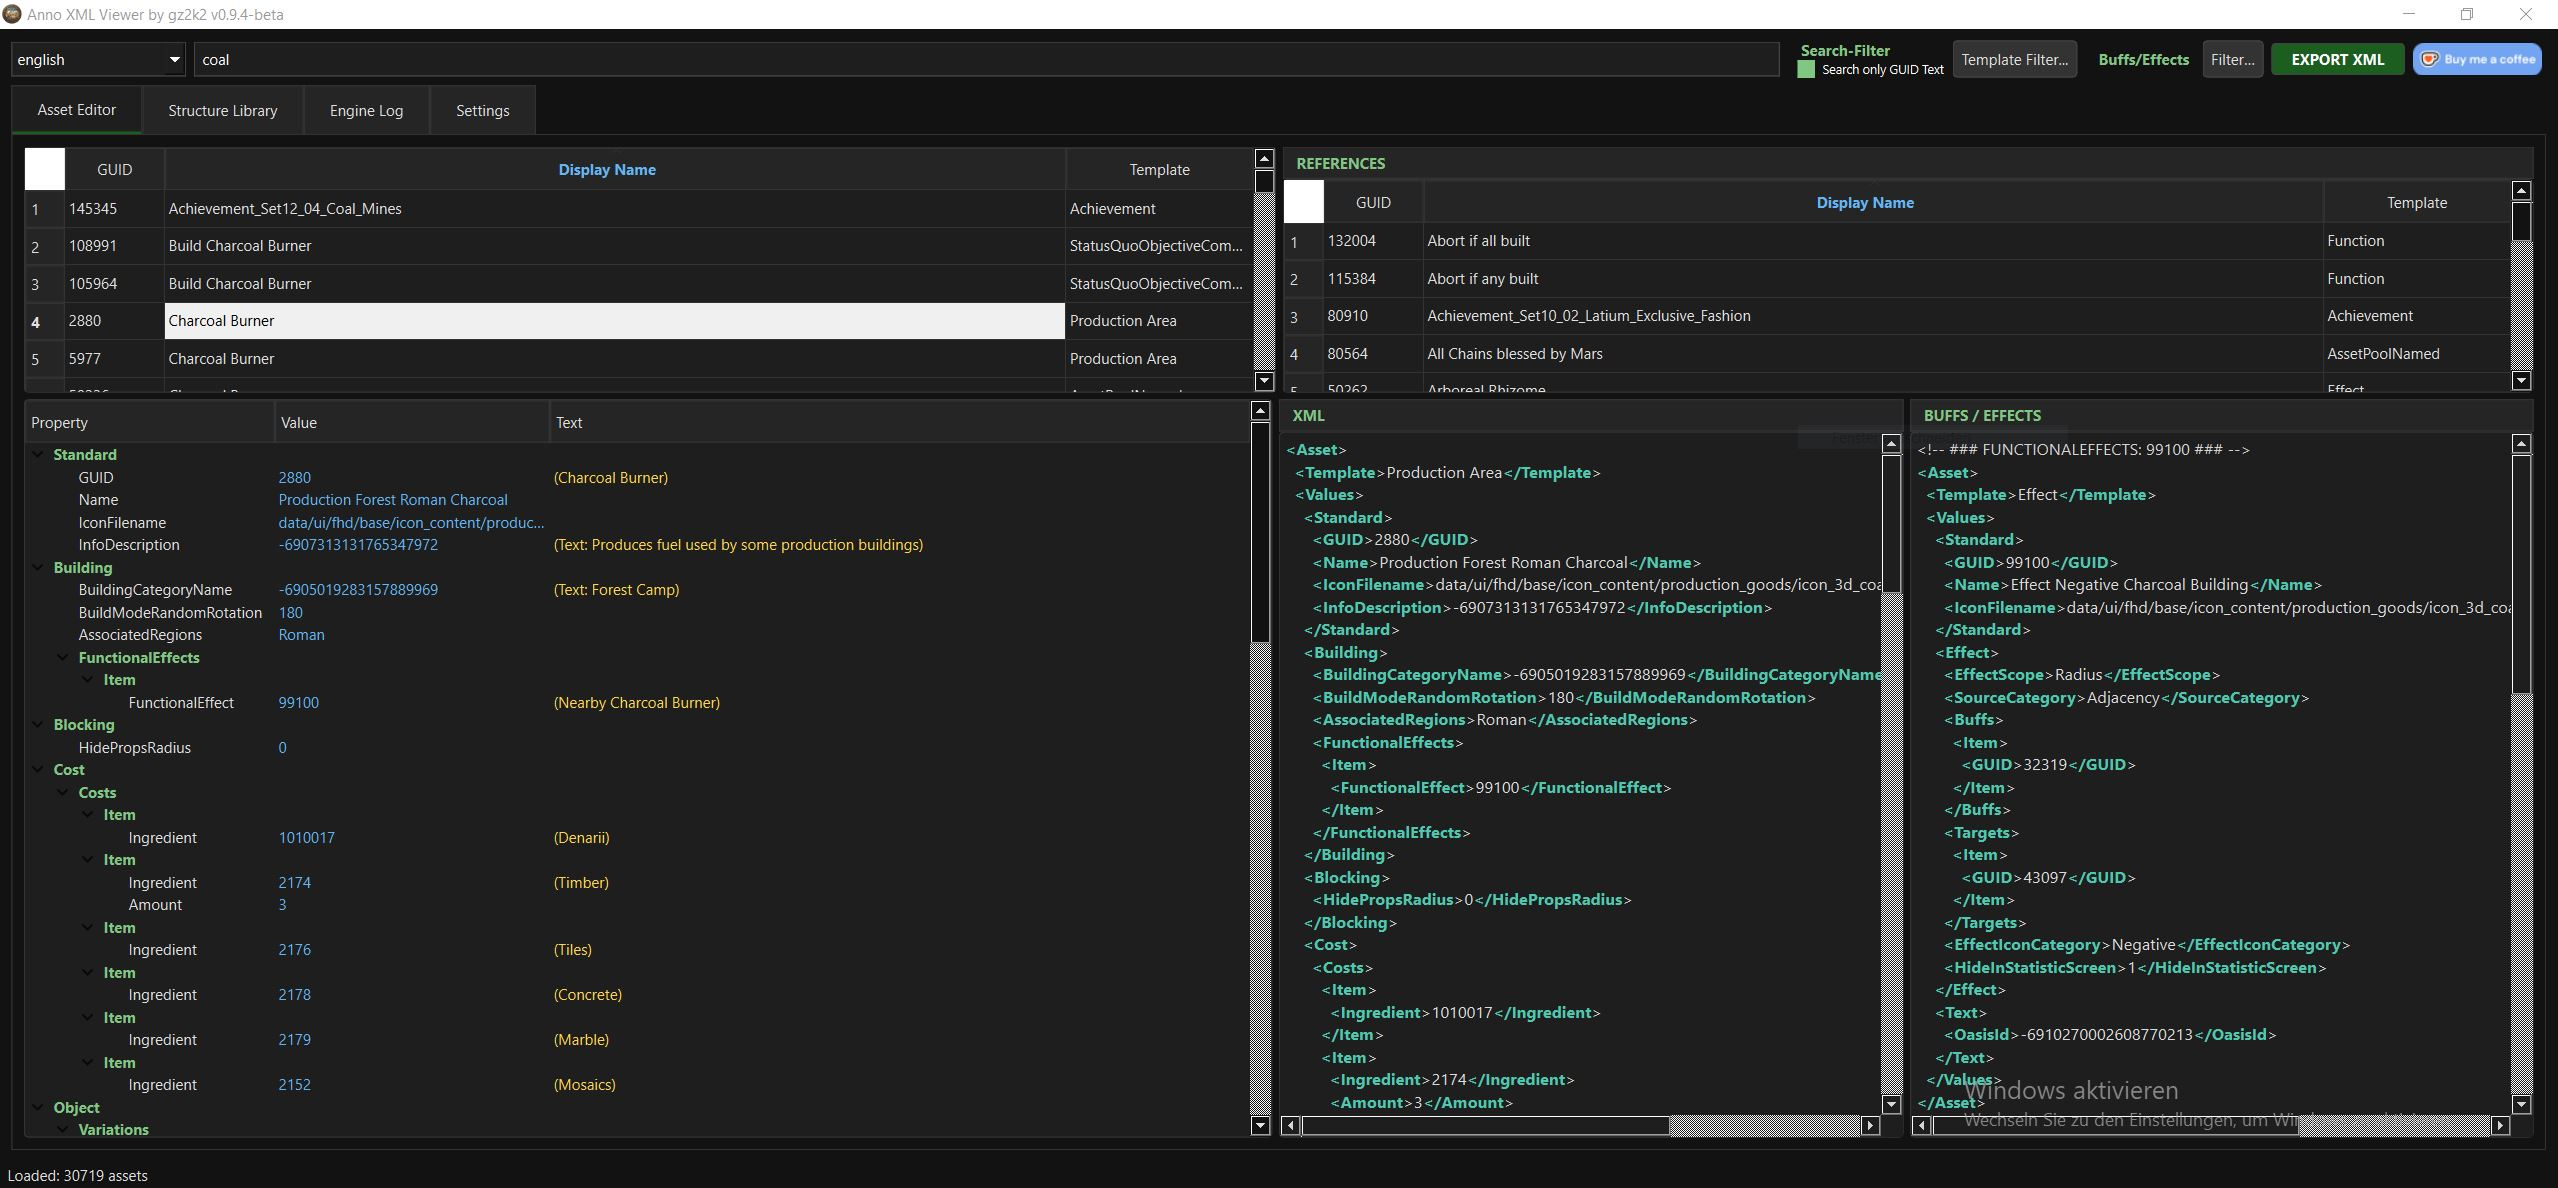
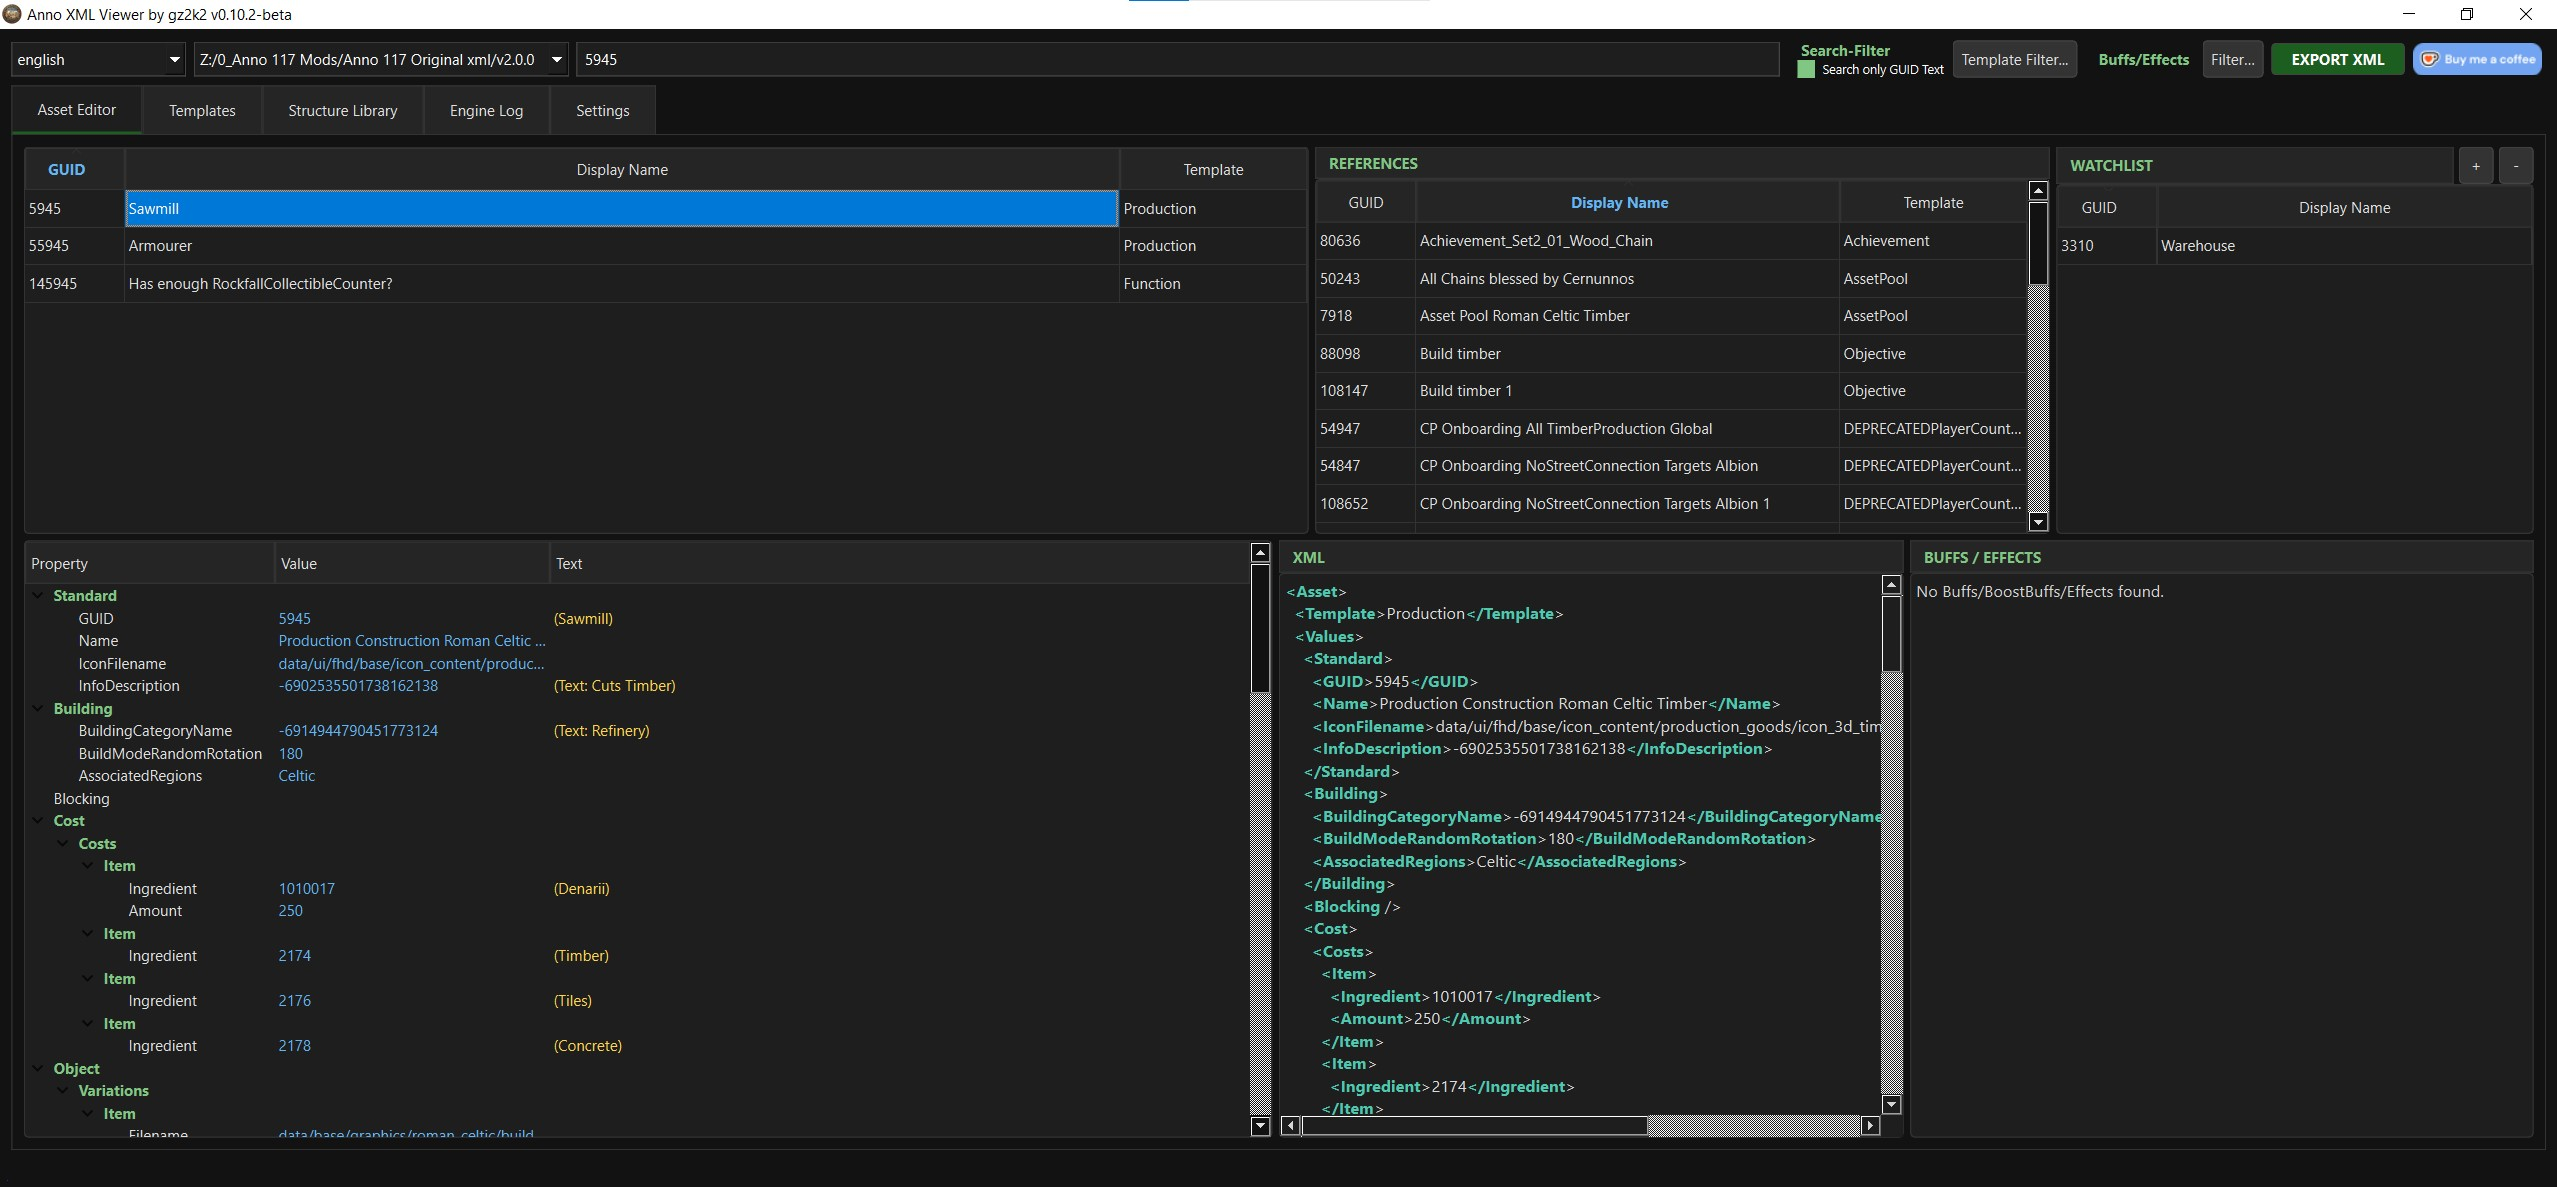
Documentation and Screenshot update

diff --git a/Documentation.md b/Documentation.md
@@ -1,40 +1,64 @@
 # Anno XML Viewer Documentation
 
-## English Version (deuterliche Version unterhalb)
+## English Version
 ---
 *Support the project:*
 <a href="https://ko-fi.com/gz2k2" target="_blank">Buy Me A Coffee</a>
 ---
+
 ### 1. Introduction
-The **Anno XML Viewer** is a specialized tool for modders of the *Anno* series. It allows for high-performance browsing, searching, and analyzing of game assets from `assets.xml`. It automatically resolves text IDs into readable strings and maps relationships between assets (e.g., buffs and effects).
+The **Anno XML Viewer** is a specialized tool for modders of the *Anno* series. It allows high-performance browsing, searching, and analysis of game assets from `assets.xml`. The tool resolves text IDs into readable strings, maps relationships between assets, and helps inspect linked buffs, effects, templates, and XML structures.
 
 ### 2. Getting Started
-1.  **Select Data Folder:** On the first start, go to the **Settings** tab. Use "Browse" to select the folder containing your game XMLs (must contain `assets.xml`; `templates.xml` and `texts_*.xml` are highly recommended for full functionality).
-2.  **Language:** Select your preferred display language in the settings.
-3.  **Loading:** The tool parses the data in the background. Check the **Engine Log** tab to see the progress.
+1. **Select Data Folder:** Open the **Settings** tab and use **Browse...** to add one or more folders containing your XML files. A folder must contain `assets.xml`; `templates.xml` and `texts_*.xml` are recommended for full functionality.
+2. **Choose Active Folder:** Use the XML path dropdown in the top bar to switch between saved XML folders. Switching the active folder reloads the data.
+3. **Language:** Select the display language in the top bar. Set the default language in **Settings**.
+4. **Loading:** The tool parses the data in the background. Check the **Engine Log** tab for progress and status messages.
 
 ### 3. Core Features
 
 #### Asset Editor & Search
-*   **Search Bar:** Enter terms to find assets. 
-    *   Use spaces for "AND" logic (e.g., `farm sheep`).
-    *   Use a minus prefix to exclude terms (e.g., `farm -module`).
-*   **Search Depth:** By default, it searches GUIDs, Names, and Templates. Uncheck **"Search only GUID Text"** to search through all text content within the assets (slower but more thorough).
-*   **Template Filter:** Click the "Template Filter..." button to isolate specific categories (e.g., only "Factory" or "Participant").
+* **Search Bar:** Enter one or more terms to find assets.
+  * Spaces use "AND" logic, for example `farm sheep`.
+  * A minus prefix excludes terms, for example `farm -module`.
+* **Search Depth:** By default, the search checks GUID, display name, and template. Disable **Search only GUID Text** to search all XML text content inside assets. This is slower but more thorough.
+* **Template Filter:** Click **Template Filter...** to select or deselect template categories. The popup includes a template search field plus **Select All** and **Deselect All** buttons.
+* **Asset Table:** Shows GUID, display name, and template. Selecting a row updates the analysis panes.
+
+#### Watchlist
+* The **WATCHLIST** panel stores selected assets by GUID for quick access.
+* Use **+** to add the currently selected asset.
+* Use **-** to remove the selected watchlist entry.
+* Watchlist entries are saved in `config.ini` and restored on restart.
 
 #### Analysis Panes
-*   **Property Tree (Left):** Displays the `<Values>` section of an asset in a readable tree format. It automatically resolves GUIDs and Text-IDs into names.
-*   **XML View (Middle):** Shows the raw, formatted XML code of the selected asset.
-*   **Buffs / Effects (Right):** Automatically finds and displays all assets referenced as buffs or effects. Use the "Filter..." button above to toggle which reference tags (like `BoostBuffs` or `UnlockReward`) should be tracked.
-*   **References (Top Right):** Shows "Reverse Search" results—every asset in the database that points to the currently selected GUID.
+* **Property Tree:** Displays the `<Values>` section of the selected asset in a readable tree. GUIDs and text IDs are resolved into names where possible.
+* **XML View:** Shows the raw, formatted XML of the selected asset.
+* **Buffs / Effects:** Shows linked assets referenced through configured buff/effect tags. Use the **Filter...** button to select which categories are shown.
+* **References:** Shows reverse-search results: assets that reference the currently selected GUID.
+
+#### Templates
+The **Templates** tab lists templates from `templates.xml`.
+* Use the search field to filter templates.
+* Selecting a template shows its formatted XML preview.
 
 #### Structure Library
-This tab provides a catalog of all unique XML tag paths found in the loaded data.
-*   Selecting a path shows a structural preview of how this tag is used in the game templates.
-*   It lists all unique values found for that specific tag across the entire dataset.
+The **Structure Library** tab catalogs unique XML tag paths found in the loaded data.
+* Use the search field to filter paths.
+* Selecting a path shows a structural preview and known values for that path across the dataset.
+
+#### Engine Log
+The **Engine Log** tab displays background loading progress, parser messages, warnings, and errors.
+
+#### Settings
+The **Settings** tab stores application configuration.
+* **Path Configuration:** Add XML folders with **Browse...** and remove saved folders with **Remove Selected**.
+* **Default Language:** Choose the language selected by default after loading.
+* **Buff/Effect XML tags:** Edit the tag list used to detect linked buffs and effects. Use **Add Tag** and **Remove Selected Tag** to manage entries.
+* **Save Settings:** Writes paths, default language, and buff/effect tags to `config.ini`, then reloads the active XML folder.
 
 #### Export
-The **EXPORT XML** button saves the selected asset into a new XML file. Crucially, it performs a **recursive export**: it also includes the full XML data of all detected buffs and effects (based on your active Buff Filter), making it an excellent tool for creating standalone mod snippets.
+The **EXPORT XML** button saves the selected asset into a new XML file. It performs a recursive export: detected buffs and effects are included based on the active Buff/Effect filter, which makes it useful for creating standalone mod snippets.
 
 ---
 
@@ -43,47 +67,71 @@ The **EXPORT XML** button saves the selected asset into a new XML file. Cruciall
 *Support the project:*
 <a href="https://ko-fi.com/gz2k2" target="_blank">Buy Me A Coffee</a>
 ---
+
 ### 1. Einleitung
-Der **Anno XML Viewer** ist ein spezialisiertes Werkzeug für Modder der *Anno*-Serie. Er ermöglicht das performante Durchsuchen und Analysieren von Game-Assets aus der `assets.xml`. Das Tool löst Text-IDs automatisch in Klartext auf und bildet Beziehungen zwischen Assets (z. B. Buffs und Effekte) ab.
+Der **Anno XML Viewer** ist ein spezialisiertes Werkzeug fuer Modder der *Anno*-Serie. Er ermoeglicht schnelles Durchsuchen, Anzeigen und Analysieren von Game-Assets aus `assets.xml`. Das Tool loest Text-IDs in lesbare Texte auf, zeigt Beziehungen zwischen Assets und hilft beim Pruefen von Buffs, Effekten, Templates und XML-Strukturen.
 
 ### 2. Erste Schritte
-1.  **Datenordner wählen:** Navigieren Sie beim ersten Start zum Reiter **Settings**. Wählen Sie über "Browse" den Ordner aus, in dem Ihre XML-Dateien liegen (erfordert `assets.xml`; `templates.xml` und `texts_*.xml` werden für den vollen Funktionsumfang dringend empfohlen).
-2.  **Sprache:** Wählen Sie in den Einstellungen die gewünschte Anzeigesprache.
-3.  **Ladevorgang:** Das Programm lädt die Daten im Hintergrund. Der Fortschritt kann im Reiter **Engine Log** verfolgt werden.
+1. **Datenordner waehlen:** Oeffne den Reiter **Settings** und fuege mit **Browse...** einen oder mehrere Ordner mit XML-Dateien hinzu. Ein Ordner muss `assets.xml` enthalten; `templates.xml` und `texts_*.xml` werden fuer den vollen Funktionsumfang empfohlen.
+2. **Aktiven Ordner waehlen:** Ueber das XML-Pfad-Dropdown in der oberen Leiste kannst du zwischen gespeicherten XML-Ordnern wechseln. Beim Wechsel werden die Daten neu geladen.
+3. **Sprache:** Waehle die Anzeigesprache in der oberen Leiste. Die Standardsprache wird unter **Settings** festgelegt.
+4. **Ladevorgang:** Das Programm laedt die Daten im Hintergrund. Fortschritt und Statusmeldungen stehen im Reiter **Engine Log**.
 
 ### 3. Hauptfunktionen
 
 #### Asset Editor & Suche
-*   **Suchleiste:** Geben Sie Begriffe ein, um Assets zu finden.
-    *   Leerzeichen entsprechen einer "UND"-Logik (z. B. `farm sheep`).
-    *   Ein Minus-Präfix schließt Begriffe aus (z. B. `farm -module`).
-*   **Suchtiefe:** Standardmäßig werden GUID, Name und Template durchsucht. Deaktivieren Sie **"Search only GUID Text"**, um sämtliche Textinhalte innerhalb der Assets zu durchsuchen (langsamer, aber gründlicher).
-*   **Template-Filter:** Nutzen Sie den Button "Template Filter...", um die Suche auf bestimmte Kategorien (z. B. nur "Factory" oder "Participant") zu begrenzen.
+* **Suchleiste:** Gib einen oder mehrere Begriffe ein, um Assets zu finden.
+  * Leerzeichen verwenden eine "UND"-Logik, zum Beispiel `farm sheep`.
+  * Ein Minus-Praefix schliesst Begriffe aus, zum Beispiel `farm -module`.
+* **Suchtiefe:** Standardmaessig durchsucht das Tool GUID, Anzeigename und Template. Deaktiviere **Search only GUID Text**, um den gesamten XML-Textinhalt der Assets zu durchsuchen. Das ist langsamer, aber gruendlicher.
+* **Template-Filter:** Mit **Template Filter...** kannst du Template-Kategorien auswaehlen oder abwaehlen. Das Popup enthaelt eine Suche sowie **Select All** und **Deselect All**.
+* **Asset-Tabelle:** Zeigt GUID, Anzeigename und Template. Die Auswahl einer Zeile aktualisiert die Analyse-Fenster.
+
+#### Watchlist
+* Das **WATCHLIST**-Fenster speichert ausgewaehlte Assets per GUID fuer schnellen Zugriff.
+* Mit **+** wird das aktuell ausgewaehlte Asset hinzugefuegt.
+* Mit **-** wird der ausgewaehlte Watchlist-Eintrag entfernt.
+* Die Watchlist wird in `config.ini` gespeichert und beim Neustart wiederhergestellt.
 
 #### Analyse-Fenster
-*   **Property Tree (Links):** Zeigt die `<Values>`-Sektion eines Assets in einer Baumstruktur an. GUIDs und Text-IDs werden automatisch in Namen aufgelöst.
-*   **XML View (Mitte):** Zeigt den rohen, formatierten XML-Code des gewählten Assets.
-*   **Buffs / Effects (Rechts):** Findet und zeigt automatisch alle Assets an, die als Buffs oder Effekte verknüpft sind. Über den "Filter..."-Button lässt sich steuern, welche Tags (z. B. `BoostBuffs` oder `UnlockReward`) berücksichtigt werden.
-*   **References (Oben Rechts):** Zeigt eine "Rückwärtssuche" – jedes Asset in der Datenbank, das auf die aktuell ausgewählte GUID verweist.
+* **Property Tree:** Zeigt die `<Values>`-Sektion des ausgewaehlten Assets als Baumstruktur. GUIDs und Text-IDs werden soweit moeglich in Namen aufgeloest.
+* **XML View:** Zeigt den rohen, formatierten XML-Code des ausgewaehlten Assets.
+* **Buffs / Effects:** Zeigt verknuepfte Assets, die ueber konfigurierte Buff-/Effect-Tags referenziert werden. Mit **Filter...** steuerst du, welche Kategorien angezeigt werden.
+* **References:** Zeigt die Rueckwaertssuche: Assets, die auf die aktuell ausgewaehlte GUID verweisen.
 
-#### Structure Library (Struktur-Bibliothek)
-Dieser Reiter bietet einen Katalog aller einzigartigen XML-Pfade, die in den geladenen Daten gefunden wurden.
-*   Die Auswahl eines Pfades zeigt eine Struktur-Vorschau, wie dieser Tag in den Templates verwendet wird.
-*   Zudem werden alle einzigartigen Werte aufgelistet, die für diesen spezifischen Tag im gesamten Datensatz existieren.
+#### Templates
+Der Reiter **Templates** listet Templates aus `templates.xml`.
+* Mit dem Suchfeld filterst du die Template-Liste.
+* Die Auswahl eines Templates zeigt eine formatierte XML-Vorschau.
+
+#### Structure Library
+Der Reiter **Structure Library** katalogisiert einzigartige XML-Pfade aus den geladenen Daten.
+* Mit dem Suchfeld filterst du die Pfade.
+* Die Auswahl eines Pfades zeigt eine Struktur-Vorschau und bekannte Werte dieses Pfades im Datensatz.
+
+#### Engine Log
+Der Reiter **Engine Log** zeigt Ladefortschritt, Parser-Meldungen, Warnungen und Fehler.
+
+#### Settings
+Der Reiter **Settings** verwaltet die Anwendungskonfiguration.
+* **Path Configuration:** XML-Ordner mit **Browse...** hinzufuegen und gespeicherte Ordner mit **Remove Selected** entfernen.
+* **Default Language:** Legt die Sprache fest, die nach dem Laden standardmaessig verwendet wird.
+* **Buff/Effect XML tags:** Bearbeitet die Tag-Liste, mit der verknuepfte Buffs und Effekte erkannt werden. Eintraege werden mit **Add Tag** und **Remove Selected Tag** verwaltet.
+* **Save Settings:** Speichert Pfade, Standardsprache und Buff-/Effect-Tags in `config.ini` und laedt den aktiven XML-Ordner neu.
 
 #### Export
-Der **EXPORT XML**-Button speichert das gewählte Asset in eine neue XML-Datei. Das Besondere: Es erfolgt ein **rekursiver Export**. Das bedeutet, dass auch die vollständigen XML-Daten aller erkannten Buffs und Effekte (basierend auf Ihrem aktiven Buff-Filter) mit exportiert werden. Ideal zum Erstellen von Mod-Vorlagen.
+Der Button **EXPORT XML** speichert das ausgewaehlte Asset in eine neue XML-Datei. Dabei erfolgt ein rekursiver Export: Erkannte Buffs und Effekte werden basierend auf dem aktiven Buff-/Effect-Filter mit exportiert. Das ist nuetzlich zum Erstellen eigenstaendiger Mod-Snippets.
 
 ---
 
 ### Technical Details / Technische Details
 
 **Requirements / Anforderungen:**
-*   Python 3.13+ (if running from source)
-*   PyQt6
+* Python 3.13+ if running from source
+* PyQt6
 
-**Configuration:**
-Settings are stored in `config.ini` in the application directory.
+**Configuration / Konfiguration:**
+Settings are stored in `config.ini` in the application directory. This includes XML paths, active/default language, buff/effect tags, and watchlist GUIDs.
 
 **Credits:**
 Created by gz2k2. This is a fan project and not affiliated with Ubisoft.
